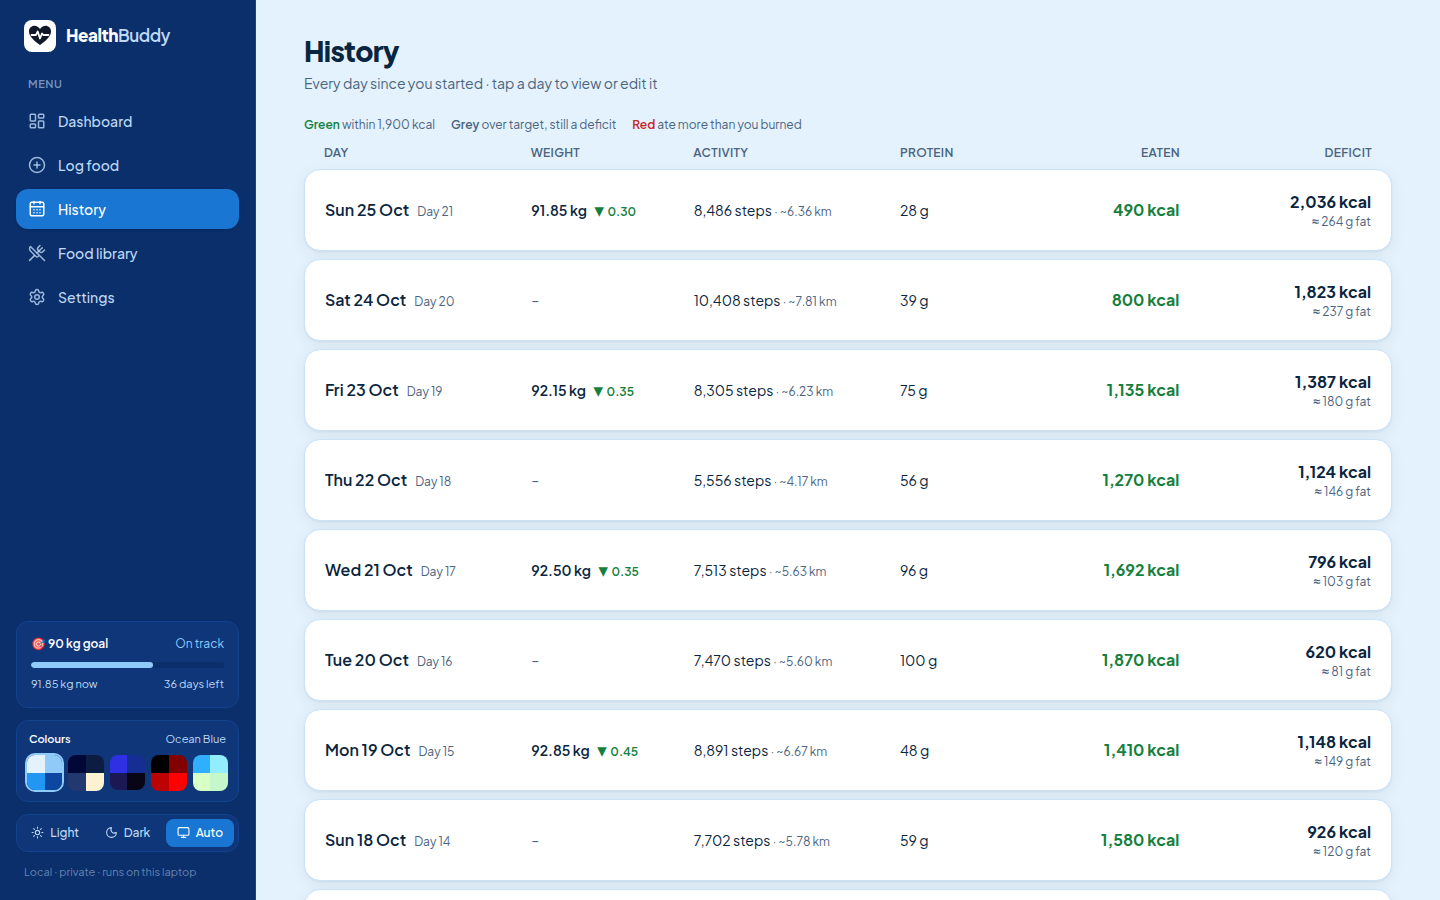
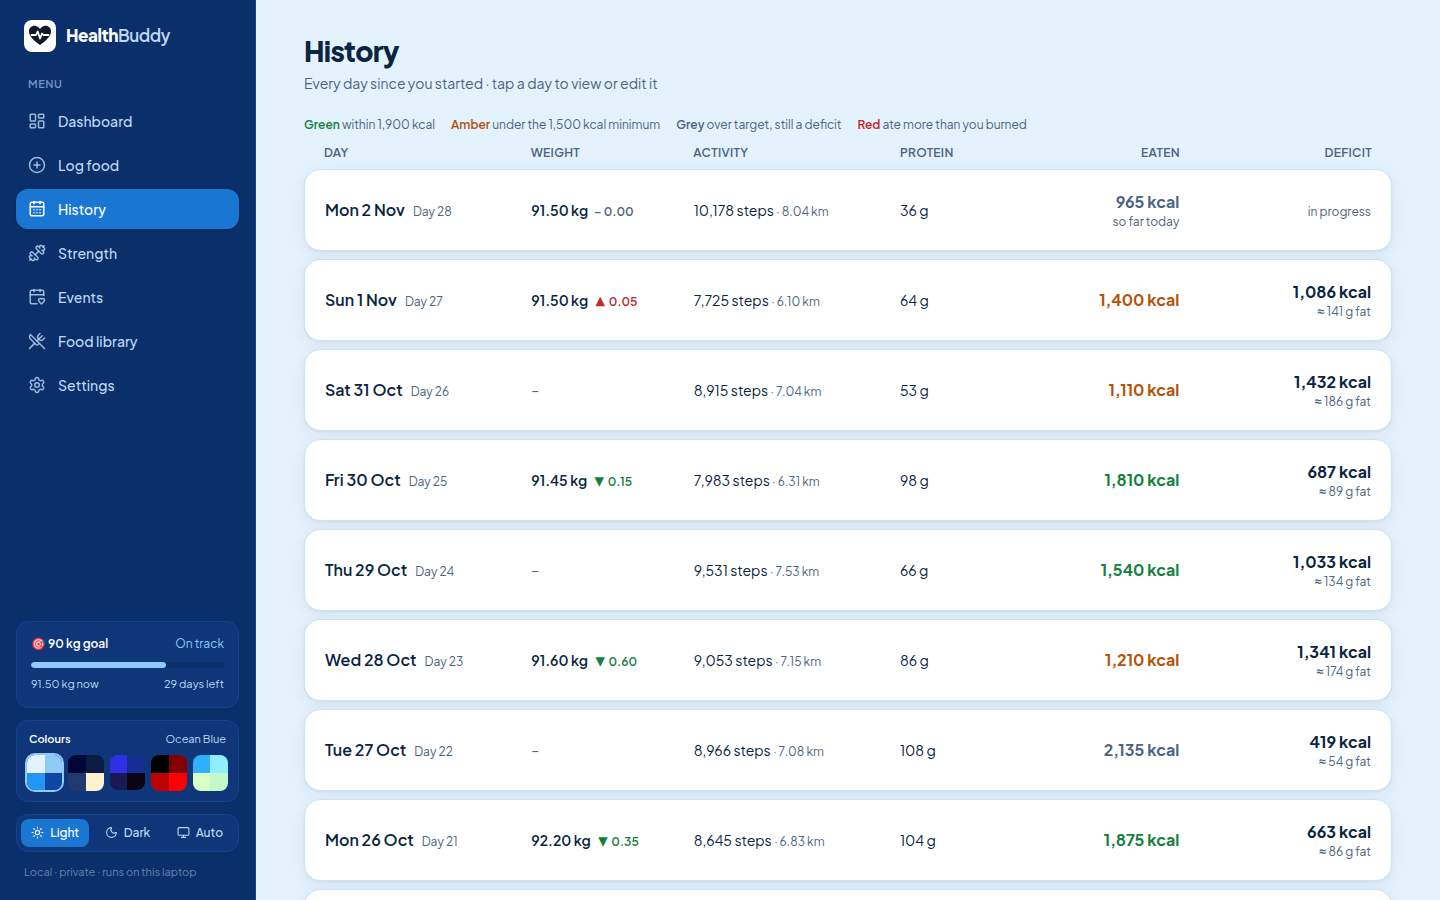
Update README for real burn, events, strength and the API
- New sections with screenshots: Your real burn, Events, Strength
- Dashboard: next event strip, today counted as in progress, toggleable sections
- History colour key adds amber for days under the minimum
- "Logging from scripts" section with curl examples for day-log, workouts and events
- Privacy notes for cross-site write blocking and the food note sent to Claude
- Refreshed dashboard, dark, history and mobile screenshots from the demo data

diff --git a/README.md b/README.md
@@ -43,17 +43,48 @@ runs on your own machine, and keeps your data in a single SQLite file you own.
   with an on-track / behind status and the weekly pace you need.
 - **Charts and weekly summary.** Weight vs plan, calories in vs out, protein, steps and distance. The weekly table
   groups *daily averages* and *week totals* and shows the change from the week before.
+- **Next event strip.** Your next dawat or birthday within a month, with your forecast weight and today's save-up.
+- **Today is "in progress".** A half-logged day never counts as a full day's deficit: totals, averages, streaks
+  and fat lost only include finished days.
+- **Choose your sections.** Switch any part of the dashboard off in Settings; the rest closes the gap.
 
-### Real burn, events and strength
-- **Your real burn.** Compares what you ate with how your smoothed weight actually moved over the last 3 weeks and
-  works out what you really burn per day, next to the formula's guess. If the formula is off, it tells you by how much
-  and what to change. It needs most days logged and gets steadier every week.
-- **Events.** Add dawats, weddings, dinners out, birthdays and anniversaries (yearly ones repeat). Each shows your
-  forecast weight on the day, when you'll reach an optional weight goal, a plan to save up the extra calories over the
-  days before, and plate tips for that kind of meal. The next one shows on the dashboard.
-- **Strength.** Log three full-body home workouts (A → B → C) set by set. Each exercise shows what you did last time and
-  what to aim for next: add reps until every set hits the top of the range, then move up a weight, based on the
-  dumbbells and plates you actually have. A progress table tracks each lift's estimated one-rep max.
+### Your real burn
+Formulas guess what you burn. Health Buddy also **measures** it: it compares what you ate with how your smoothed
+weight actually moved over the last 3 weeks and works backwards to your real daily burn (the approach adaptive apps
+like MacroFactor use), right next to the formula's number.
+
+- **Formula close?** Your deficits are real.
+- **Real burn lower?** It tells you how much less to eat (or how many more steps) to stay on pace.
+- **Real burn higher?** Usually water loss early on, or food counted on the high side.
+- Weigh-ins are smoothed first, so a salty dinner doesn't throw it off. It needs most days logged and shows the
+  estimate for earlier weeks, so you can watch your burn fall as you get lighter.
+
+![Real burn](docs/screenshots/real-burn.png)
+
+### Events
+Plan around the meals you can't skip: dawats, weddings, dinners out, birthdays, anniversaries.
+
+- **Weight on the day:** where your trend puts you on that date.
+- **Weight goal (optional):** the date you'll reach it at your current pace, and how many kcal a day you're short or
+  have to spare.
+- **Save-up plan:** enter the extra kcal you expect and it spreads them over the days before
+  (e.g. 1,000 over 3 days = ~330 less a day).
+- **Plate plan:** tips for that kind of meal, such as protein first, one round of rice, zero drinks.
+- **Yearly events repeat**, past one-offs link to the log for that day, and the next event shows on the dashboard.
+
+![Events](docs/screenshots/events.png)
+
+### Strength
+Three full-body home workouts (A → B → C, any 3 days a week), logged set by set.
+
+- Each exercise shows **what you did last time** and **what to aim for**: add reps until every set reaches the top of
+  the range, then move up a weight, using the dumbbells and plates you actually own (5/10/15 kg dumbbells, +10 kg
+  on the bar).
+- Light weeks first (2 sets for the first 6 sessions, then 3), a this-week counter, and a **progress table** with each
+  lift's estimated one-rep max.
+- Edit the exercises in `src/lib/workouts.ts`.
+
+![Strength](docs/screenshots/strength.png)
 
 ### History
 - One row per day with weight change (▼ / ▲), steps and km, protein, calories eaten and the day's deficit with its
@@ -65,8 +96,6 @@ runs on your own machine, and keeps your data in a single SQLite file you own.
 - **Five colour palettes** (Ocean Blue, Navy & Cream, Electric Indigo, Crimson Black, Sky & Mint), each with a light
   and a dark version, plus Light / Dark / Auto. Pick them in the sidebar.
 - Chart colours for every palette are checked to be colour-blind safe. Status colours stay the same in all of them.
-- **Choose your dashboard.** Switch any section off in Settings (insights, cards, charts, streaks, journey…) and the
-  rest closes the gap.
 - Works on a phone-sized screen, and animations turn off when your system asks for reduced motion.
 
 ### Honest maths
@@ -104,6 +133,36 @@ runs on your own machine, and keeps your data in a single SQLite file you own.
 Dashboard extras (streaks, insights, journey route) live in `src/lib/insights.ts`, real burn in `src/lib/tdee.ts`,
 event planning in `src/lib/events.ts` and the workouts and progression rules in `src/lib/workouts.ts`. Palettes are CSS variables in
 `src/app/globals.css`, switched with `<html data-palette>`.
+
+## Logging from scripts (or an AI coach)
+
+Everything the app does goes through a small JSON API on `127.0.0.1:4782`, so you can log from a script, a shortcut,
+or a chat assistant that knows your day. A few useful calls:
+
+```bash
+# a whole day (or part of one): meals + weight/steps; send only what you have
+curl -X POST http://127.0.0.1:4782/api/day-log -H 'content-type: application/json' -d '{
+  "date": "2026-11-02",
+  "entries": [{ "meal": "breakfast", "raw_text": "2 boiled eggs, chai",
+                "items": [{ "name": "Egg, boiled", "qty": 2, "unit": "piece", "kcal": 150, "protein": 12 }] }],
+  "stats": { "weight": 82.4, "steps": 9200, "distance_km": 7.1, "active_kcal": 480 }
+}'
+
+# a workout session (replaces that date + workout)
+curl -X POST http://127.0.0.1:4782/api/workouts -H 'content-type: application/json' -d '{
+  "date": "2026-11-02", "workout": "A",
+  "sets": [{ "exercise": "Goblet squat (to the bench)", "set_no": 1, "weight": 10, "reps": 12 }]
+}'
+
+# an event
+curl -X POST http://127.0.0.1:4782/api/events -H 'content-type: application/json' -d '{
+  "name": "Ali'"'"'s wedding", "date": "2026-12-12", "kind": "wedding", "extra_kcal": 1000, "bank_days": 3
+}'
+```
+
+Meals are `breakfast`, `lunch`, `snack`, `dinner` or `drink`. Dates can't be in the future (events can), numbers are
+range-checked, and a bad request gets a `400` with the reason. Other routes: `GET /api/export` (CSV),
+`PUT /api/days/:date`, `PUT /api/profile`, `/api/foods`, `/api/entries/:id`, `/api/items/:id`.
 
 ## Getting started
 
@@ -177,7 +236,7 @@ systemctl --user enable --now health-buddy
 | `npm run dev` | Dev server with hot reload (http://127.0.0.1:4782) |
 | `npm run build` / `npm start` | Production build / server |
 | `npm run typecheck` | TypeScript check |
-| `npm run demo` | Build a demo database with a made-up user, then `HEALTH_DB=data/demo.db npm start` |
+| `npm run demo` | Build a demo database (4 weeks, events, workouts) for a made-up user, then `HEALTH_DB=data/demo.db npm start` |
 | `node scripts/backup-db.mjs [out.db]` | Safe snapshot of the live database |
 | `npm run import:csv [file]` | Import a daily CSV log (see `scripts/import-csv.mjs` for the columns) |
 
